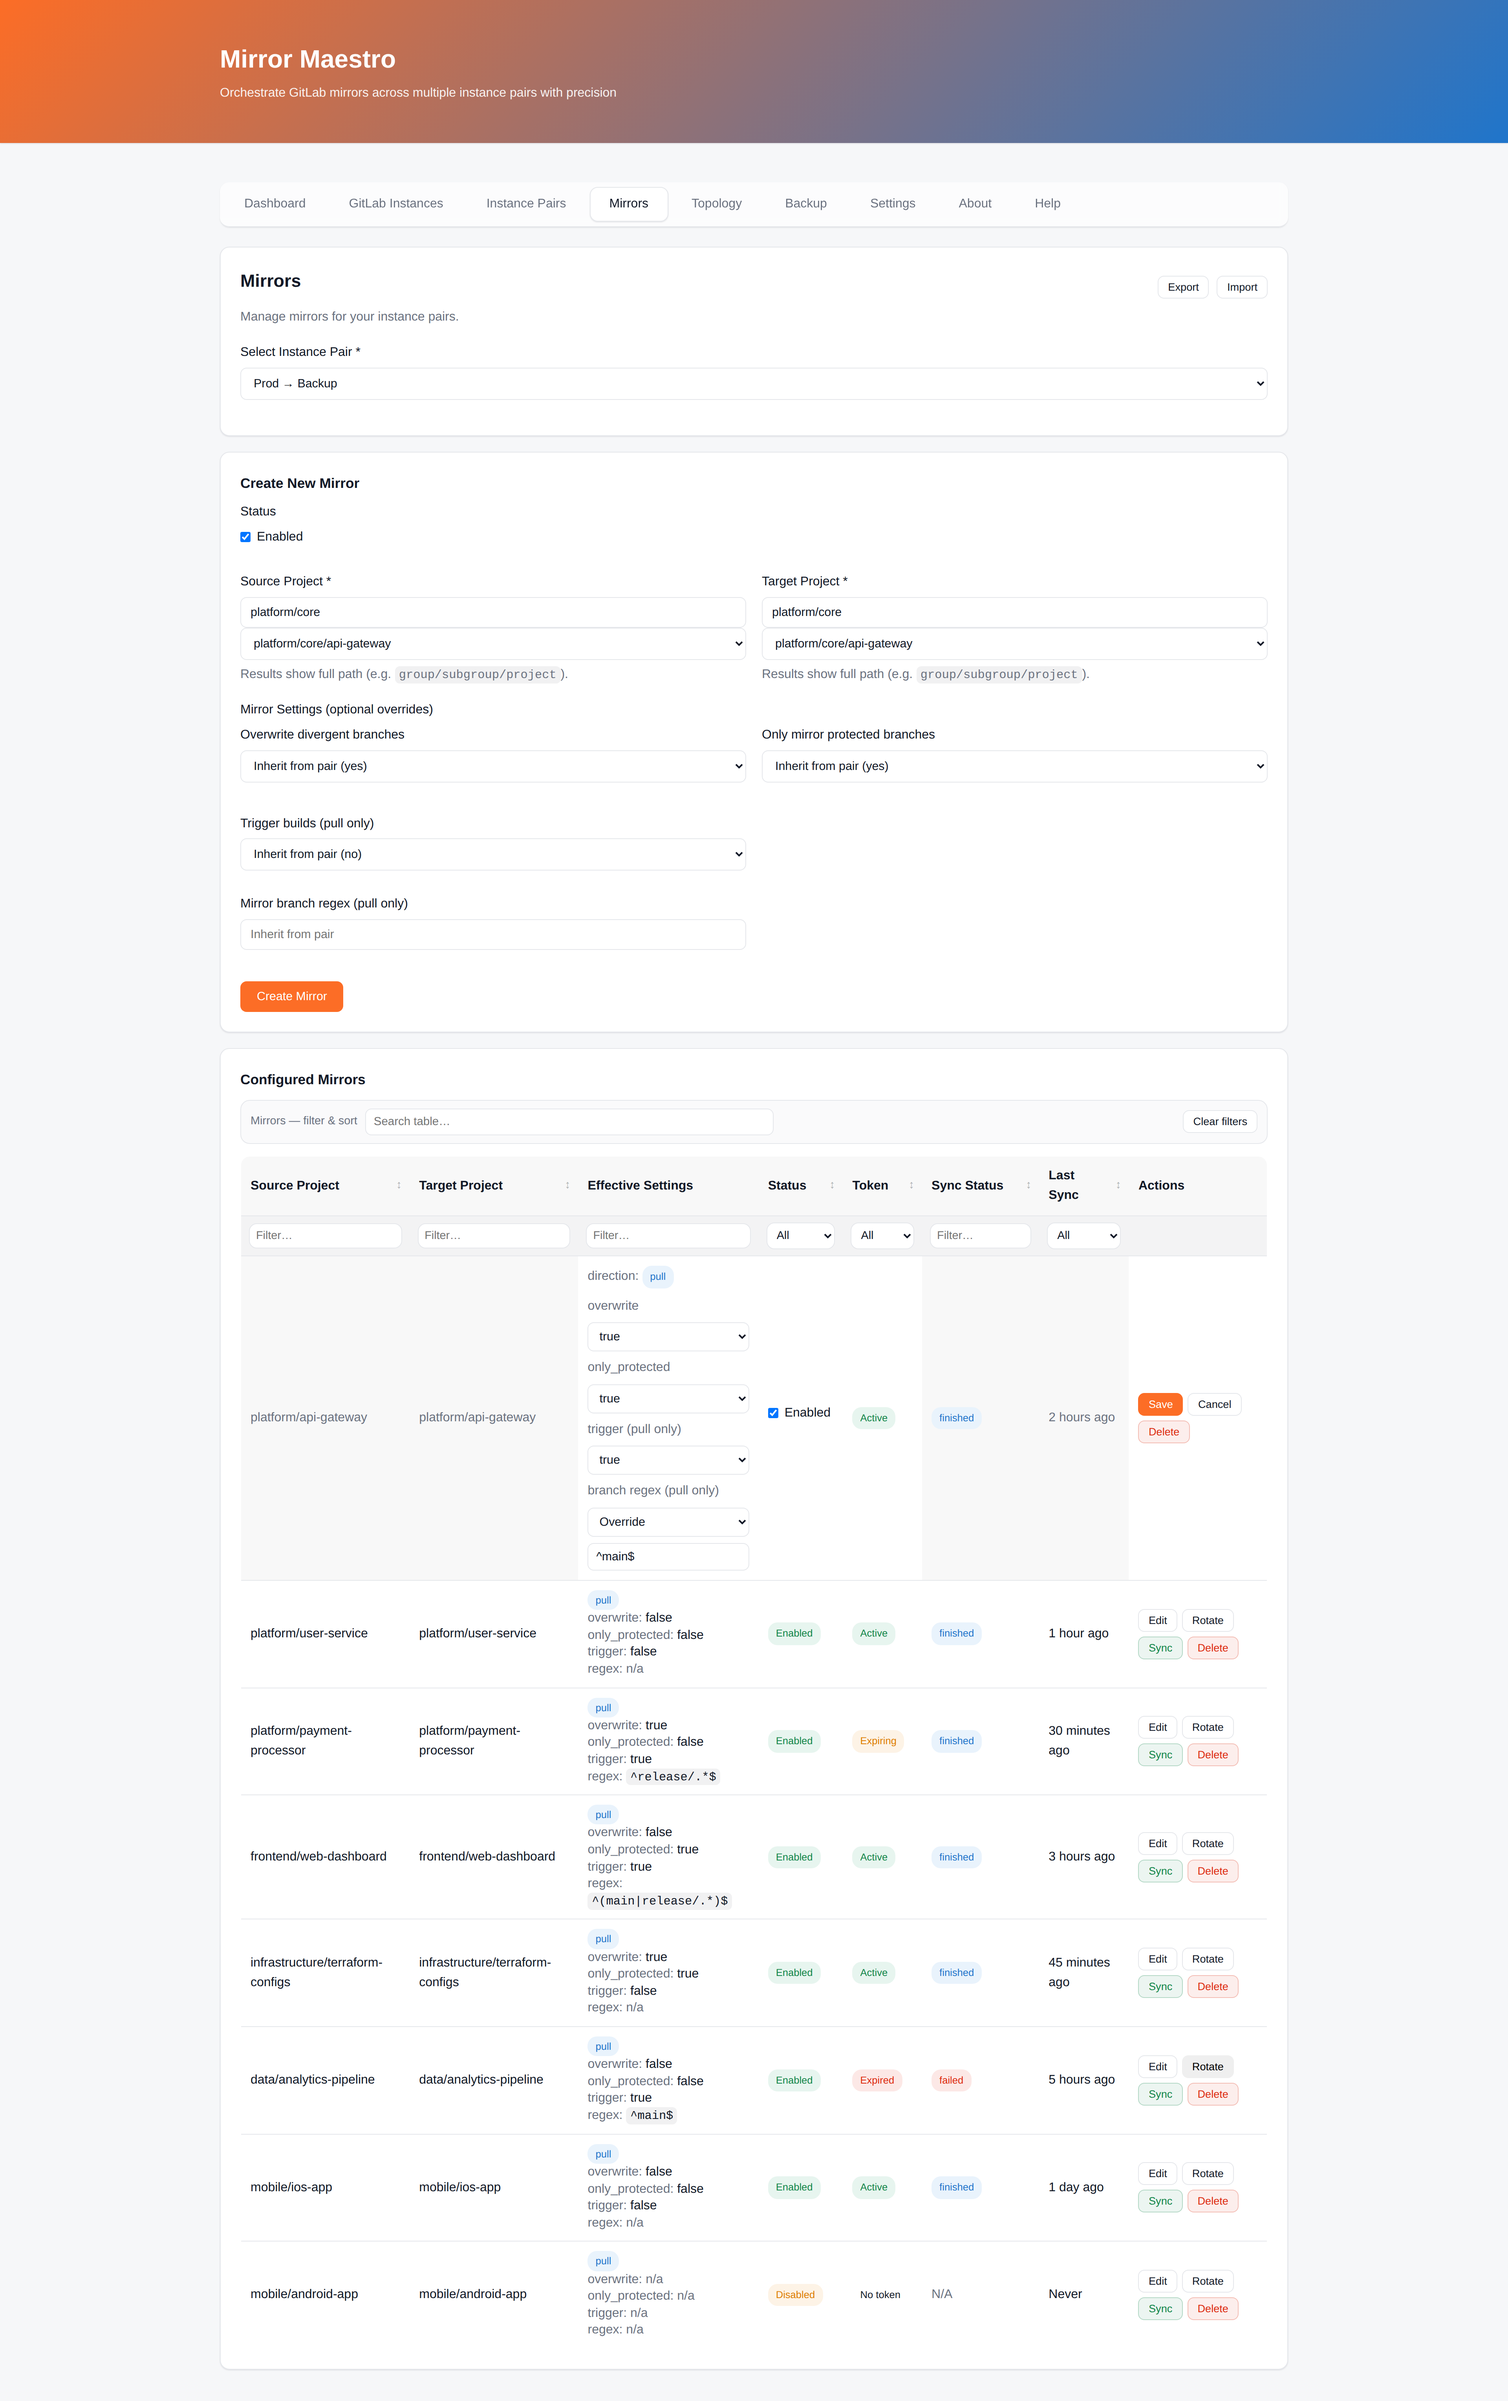
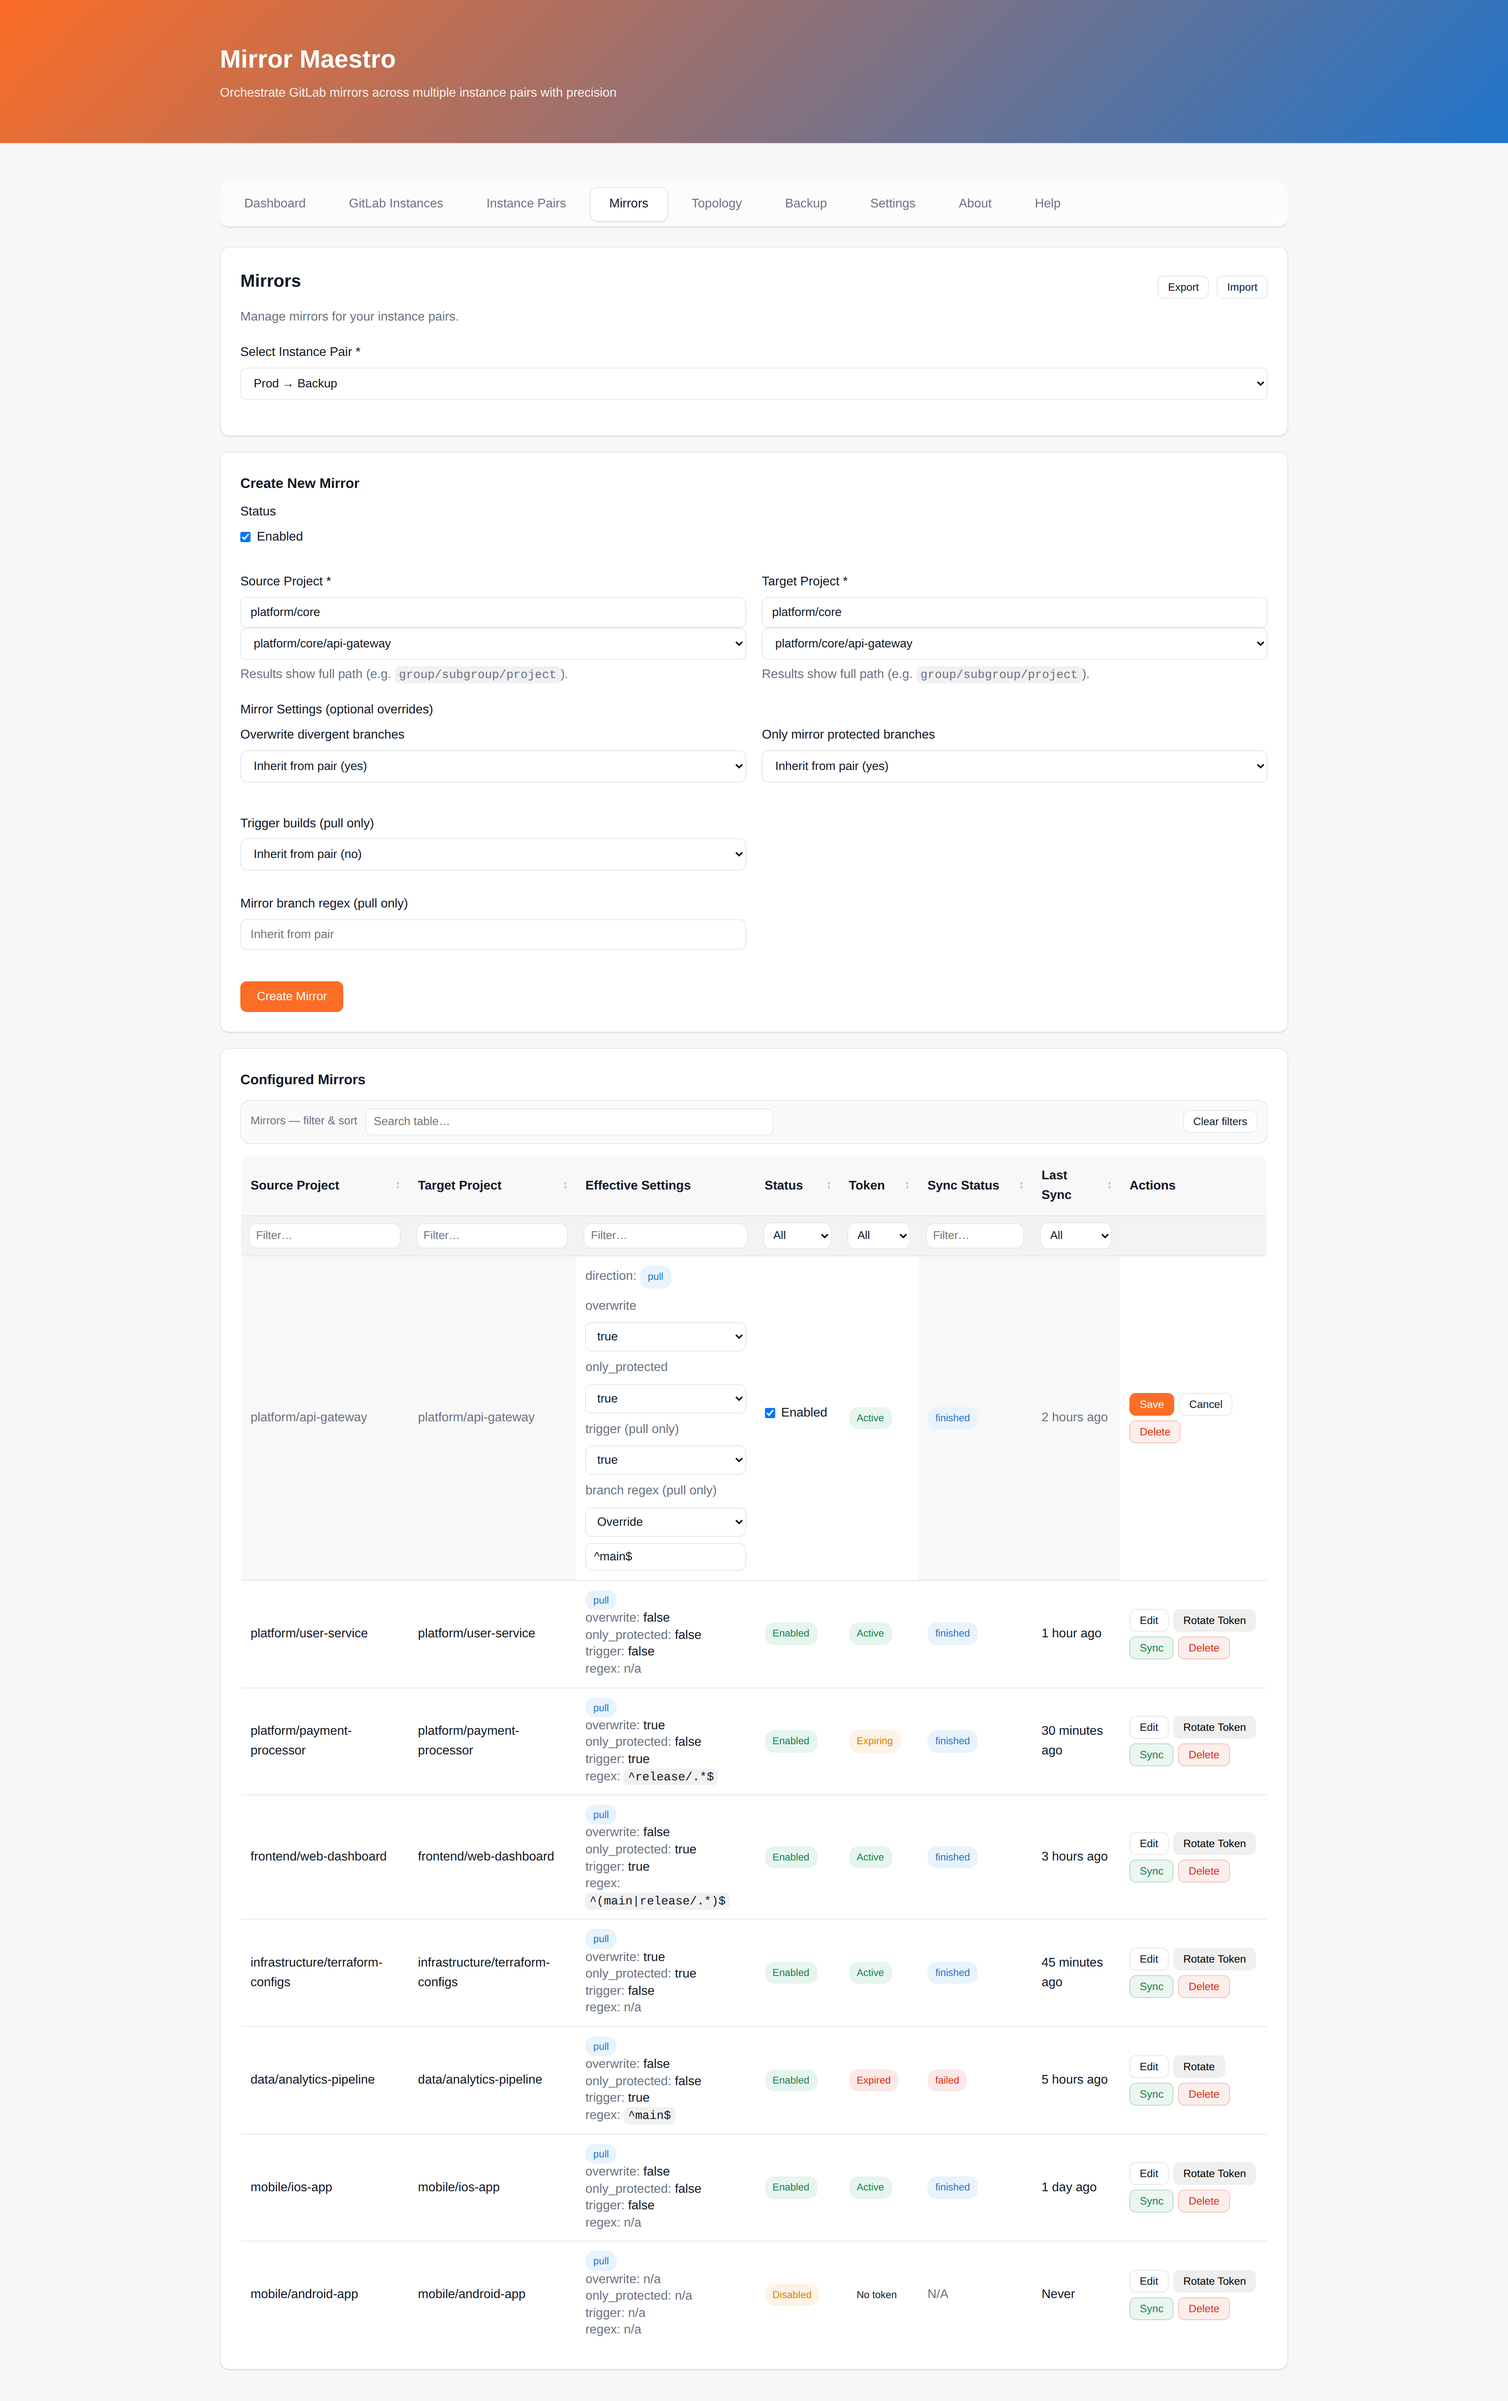
docs: Update screenshots to reflect recent UI changes
- Add "Sync All" button to Instance Pairs table actions
- Change "Rotate" to "Rotate Token" in Mirrors table
- Regenerate affected screenshots (pairs, mirrors, topology)

diff --git a/docs/screenshots/demo-mirrors.html b/docs/screenshots/demo-mirrors.html
@@ -218,7 +218,7 @@
                             <td>
                                 <div class="table-actions">
                                     <button class="btn btn-secondary btn-small">Edit</button>
-                                    <button class="btn btn-secondary btn-small">Rotate</button>
+                                    <button class="btn btn-warning btn-small">Rotate Token</button>
                                     <button class="btn btn-success btn-small">Sync</button>
                                     <button class="btn btn-danger btn-small">Delete</button>
                                 </div>
@@ -243,7 +243,7 @@
                             <td>
                                 <div class="table-actions">
                                     <button class="btn btn-secondary btn-small">Edit</button>
-                                    <button class="btn btn-secondary btn-small">Rotate</button>
+                                    <button class="btn btn-warning btn-small">Rotate Token</button>
                                     <button class="btn btn-success btn-small">Sync</button>
                                     <button class="btn btn-danger btn-small">Delete</button>
                                 </div>
@@ -268,7 +268,7 @@
                             <td>
                                 <div class="table-actions">
                                     <button class="btn btn-secondary btn-small">Edit</button>
-                                    <button class="btn btn-secondary btn-small">Rotate</button>
+                                    <button class="btn btn-warning btn-small">Rotate Token</button>
                                     <button class="btn btn-success btn-small">Sync</button>
                                     <button class="btn btn-danger btn-small">Delete</button>
                                 </div>
@@ -293,7 +293,7 @@
                             <td>
                                 <div class="table-actions">
                                     <button class="btn btn-secondary btn-small">Edit</button>
-                                    <button class="btn btn-secondary btn-small">Rotate</button>
+                                    <button class="btn btn-warning btn-small">Rotate Token</button>
                                     <button class="btn btn-success btn-small">Sync</button>
                                     <button class="btn btn-danger btn-small">Delete</button>
                                 </div>
@@ -343,7 +343,7 @@
                             <td>
                                 <div class="table-actions">
                                     <button class="btn btn-secondary btn-small">Edit</button>
-                                    <button class="btn btn-secondary btn-small">Rotate</button>
+                                    <button class="btn btn-warning btn-small">Rotate Token</button>
                                     <button class="btn btn-success btn-small">Sync</button>
                                     <button class="btn btn-danger btn-small">Delete</button>
                                 </div>
@@ -368,7 +368,7 @@
                             <td>
                                 <div class="table-actions">
                                     <button class="btn btn-secondary btn-small">Edit</button>
-                                    <button class="btn btn-secondary btn-small">Rotate</button>
+                                    <button class="btn btn-warning btn-small">Rotate Token</button>
                                     <button class="btn btn-success btn-small">Sync</button>
                                     <button class="btn btn-danger btn-small">Delete</button>
                                 </div>

diff --git a/docs/screenshots/demo-pairs.html b/docs/screenshots/demo-pairs.html
@@ -168,6 +168,7 @@
                             </td>
                             <td>
                                 <div class="table-actions">
+                                    <button class="btn btn-primary btn-small">Sync All</button>
                                     <button class="btn btn-secondary btn-small">Edit</button>
                                     <button class="btn btn-danger btn-small">Delete</button>
                                 </div>
@@ -188,6 +189,7 @@
                             </td>
                             <td>
                                 <div class="table-actions">
+                                    <button class="btn btn-primary btn-small">Sync All</button>
                                     <button class="btn btn-secondary btn-small">Edit</button>
                                     <button class="btn btn-danger btn-small">Delete</button>
                                 </div>
